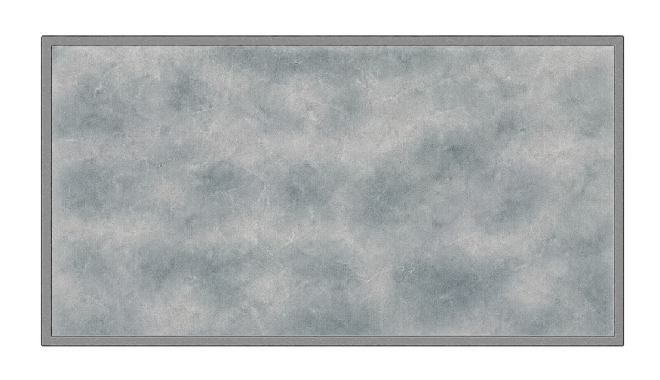
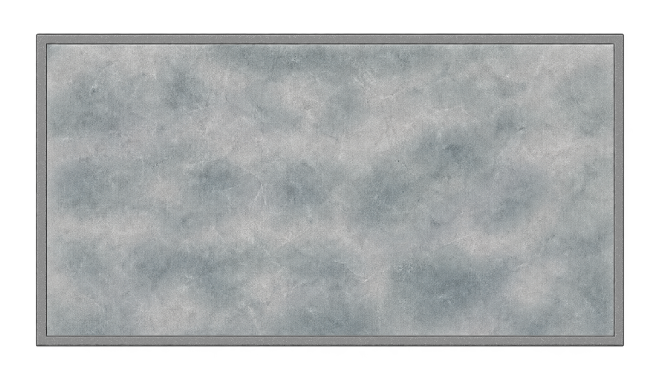
Refactor text box drawing logic for land cards and adjust bevel width calculations

Changed region(s): [[0.0303, 0.0868, 0.9394, 0.9263]]

diff --git a/src/renderer-face.ts b/src/renderer-face.ts
@@ -236,7 +236,8 @@ function drawTextBox(renderCtx: RenderFaceContext): void {
 
     const artBoxRect = getArtRect(layout, scene.offsetX, scene.offsetY);
     const artBevelWidth = (rotated ? 3 : 4) * scene.scale;
-    const textBoxBevelWidth = (rotated ? 2 : 3) * scene.scale;
+    // const textBoxBevelWidth = (rotated ? 2 : 3) * scene.scale;
+    const textBoxBevelWidth = (rotated ? 2 : 3) * scene.scale * 0.9;
 
     // Check for manacost, is creature, and if facetype is standard
     const isLand = !face.manaCost && !face.isACreature && face.faceLayout === 0;
@@ -289,10 +290,10 @@ function drawTextBox(renderCtx: RenderFaceContext): void {
     }
 
     if (isLand) {
-
+        const landDrawAlpha = 0.5; // All land text box drawing is over the grayscale texture just applied
         switch (fill.kind) {
             case "solid": {
-                surface.setFillStyle(utils.toCommaRgb(...fill.color));
+                surface.setFillStyle(utils.toCommaRgb(...fill.color, landDrawAlpha));
                 surface.fillRect(textBoxRect.x, textBoxRect.y, textBoxRect.width, textBoxRect.height);
                 break;
             }
@@ -305,10 +306,10 @@ function drawTextBox(renderCtx: RenderFaceContext): void {
                     x1: textBoxRect.x + textBoxRect.width,
                     y1: textBoxRect.y,
                     stops: [
-                        { offset: 0, color: utils.toCommaRgb(...fill.first) },
-                        { offset: 0.37, color: utils.toCommaRgb(...fill.first) },
-                        { offset: 0.63, color: utils.toCommaRgb(...fill.second) },
-                        { offset: 1, color: utils.toCommaRgb(...fill.second) },
+                        { offset: 0, color: utils.toCommaRgb(...fill.first, landDrawAlpha) },
+                        { offset: 0.37, color: utils.toCommaRgb(...fill.first, landDrawAlpha) },
+                        { offset: 0.63, color: utils.toCommaRgb(...fill.second, landDrawAlpha) },
+                        { offset: 1, color: utils.toCommaRgb(...fill.second, landDrawAlpha) },
                     ],
                 });
                 surface.fillRect(textBoxRect.x, textBoxRect.y, textBoxRect.width, textBoxRect.height);
@@ -365,7 +366,7 @@ function drawTextBox(renderCtx: RenderFaceContext): void {
         // first, lets use color2
         surface.setStrokeStyle(utils.toCommaRgb(...color2));
         // surface.setLineWidth(Math.max(1, scene.scale * 0.5));
-        surface.setLineWidth(scene.scale * 0.5);
+        surface.setLineWidth(scene.scale * 0.75);
         surface.strokeRect(faceBounds.x + cardBevelWidth, faceBounds.y + cardBevelWidth, faceBounds.width - cardBevelWidth * 2, faceBounds.height - cardBevelWidth * 2);
 
         // Next another line using color1 around artbox
@@ -428,35 +429,6 @@ function drawTextBox(renderCtx: RenderFaceContext): void {
             );
 
         }
-
-    } else if (fill.kind === "solid") {
-        // NON-LANDS
-
-
-        // // USED TO BE ONLY PLAIN COLOR FILLS AND BEVEL:
-        // surface.setFillStyle(utils.toCommaRgb(...fill.color));
-        // surface.fillRect(textBoxRect.x, textBoxRect.y, textBoxRect.width, textBoxRect.height);
-        // surface.setStrokeStyle("rgba(0, 0, 0, 0.25)");
-        // surface.setLineWidth(Math.max(1, scene.scale * 0.5));
-        // surface.strokeRect(textBoxRect.x, textBoxRect.y, textBoxRect.width, textBoxRect.height);
-
-
-        // const lightColor = utils.lightenColor(fill.color, 0.3);
-        // const darkColor = utils.darkenColor(fill.color, 0.18);
-
-        // drawRectangleBevel(
-        //     surface,
-        //     textBoxRect.x,
-        //     textBoxRect.y,
-        //     textBoxRect.width,
-        //     textBoxRect.height,
-        //     textBoxBevelWidth,
-        //     darkColor,
-        //     lightColor,
-        //     face.faceLayout === 2 || face.faceLayout === 4
-        // );
-
-
 
     }
 

diff --git a/src/constants.ts b/src/constants.ts
@@ -117,7 +117,7 @@ export const FaceLayouts: { [key: number]: FaceLayout } = {
         yedition: 188.75,
         xpowertough: 222,
         ypowertough: 312,
-        xtext: 20,
+        xtext: 21,
         ytext: 204,
         textangle: 0,
         xtb: 18,
